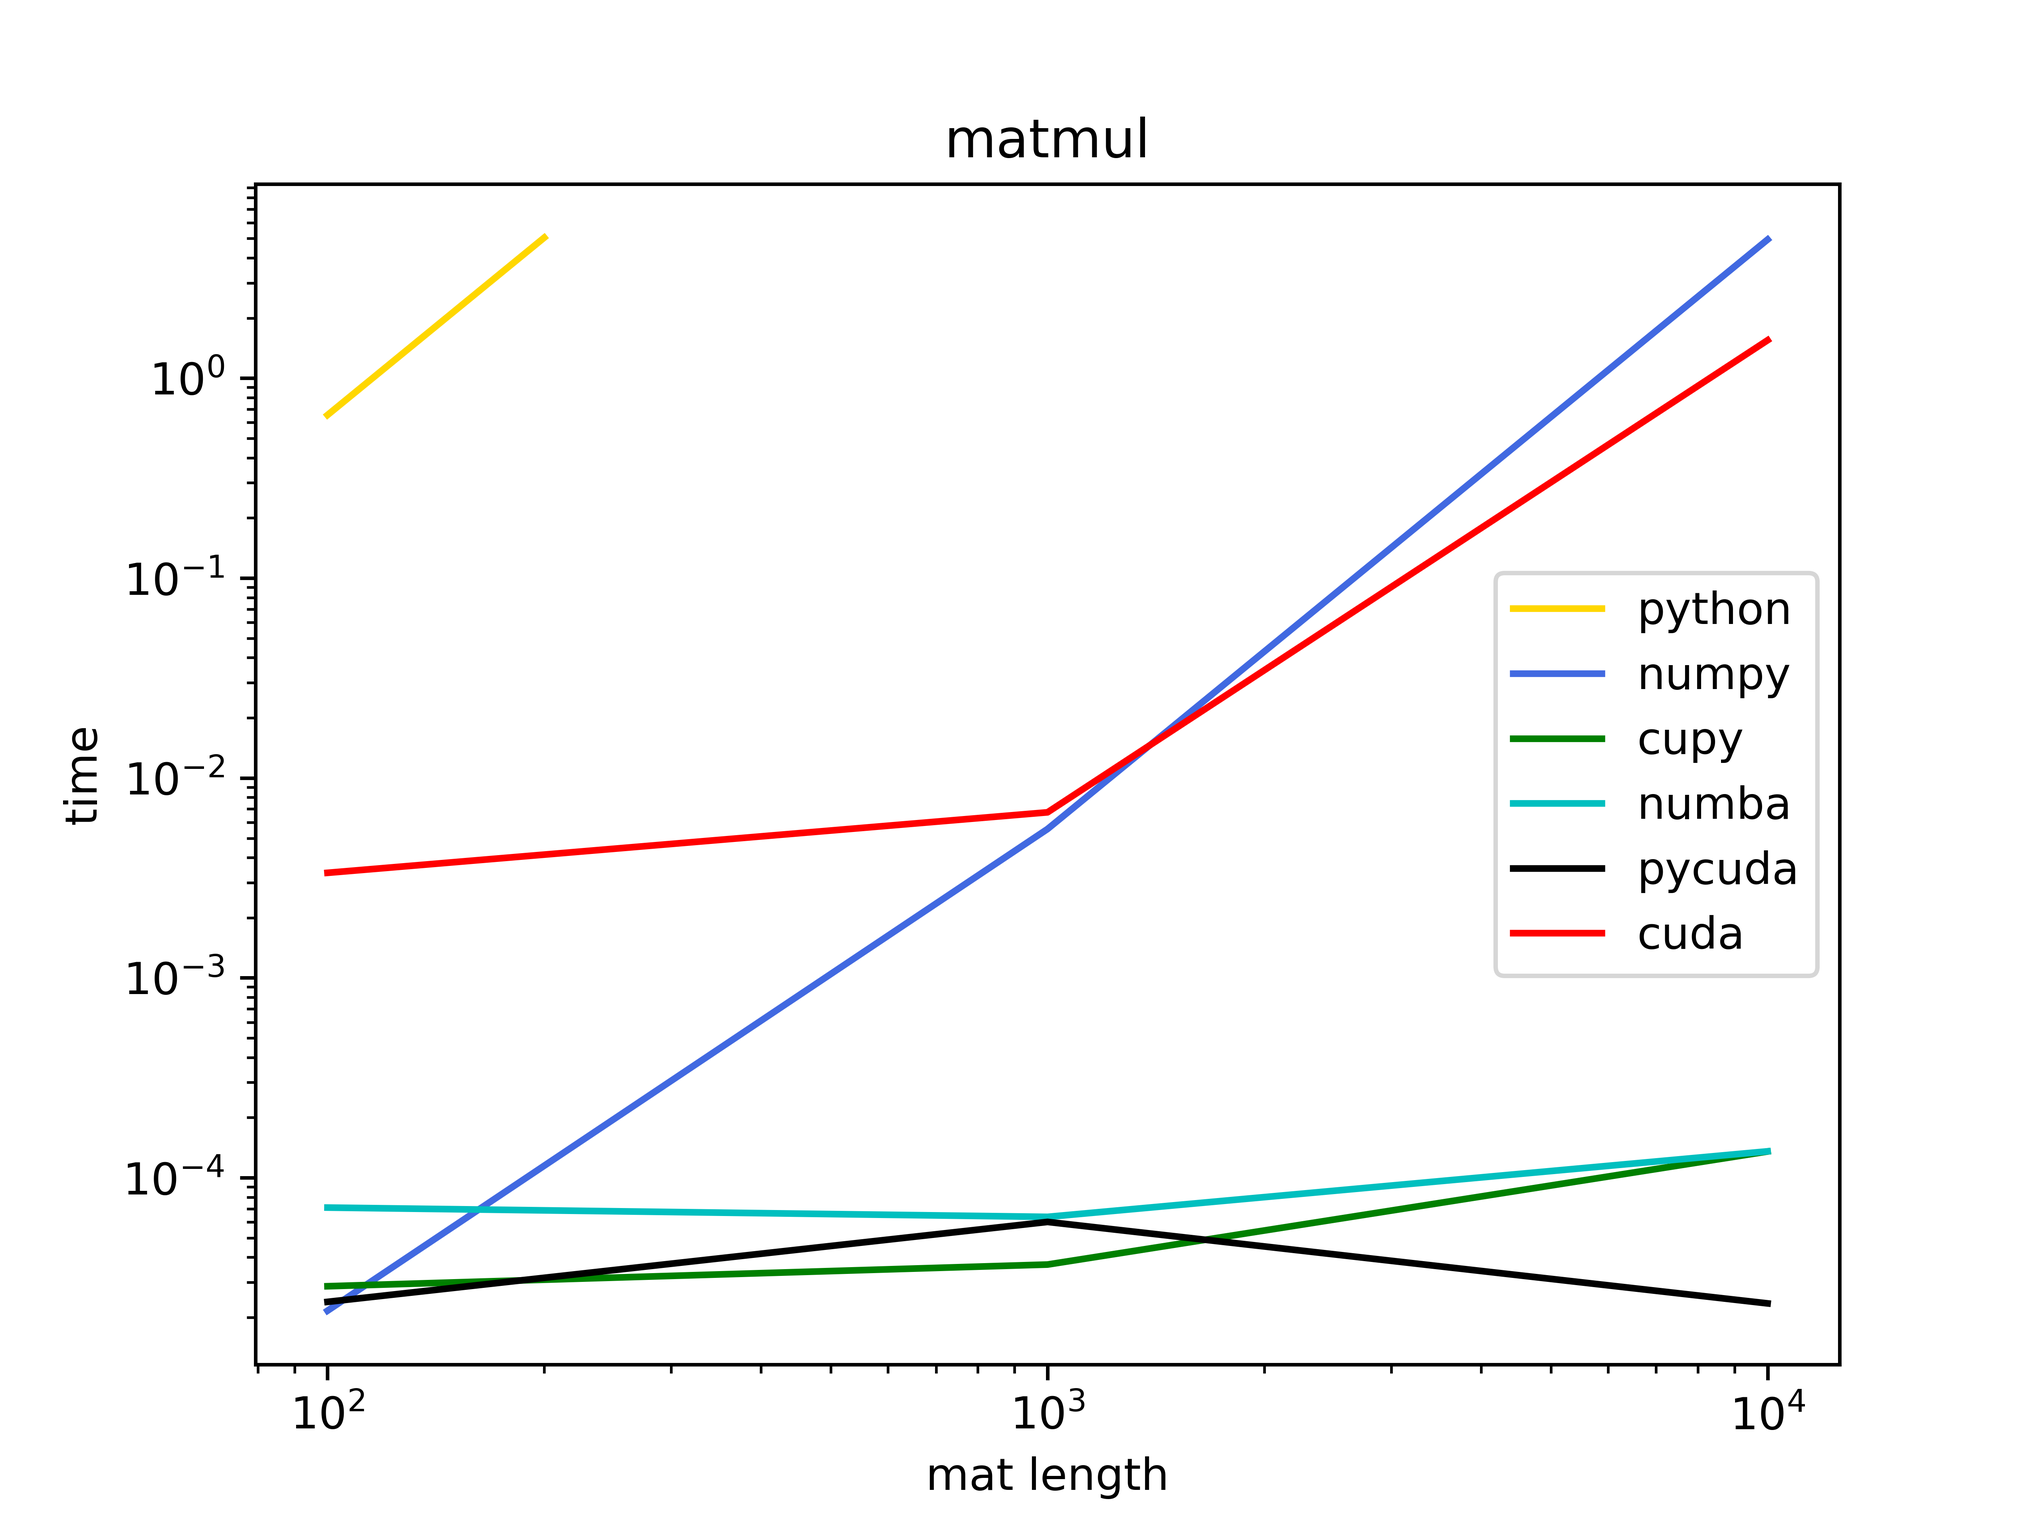
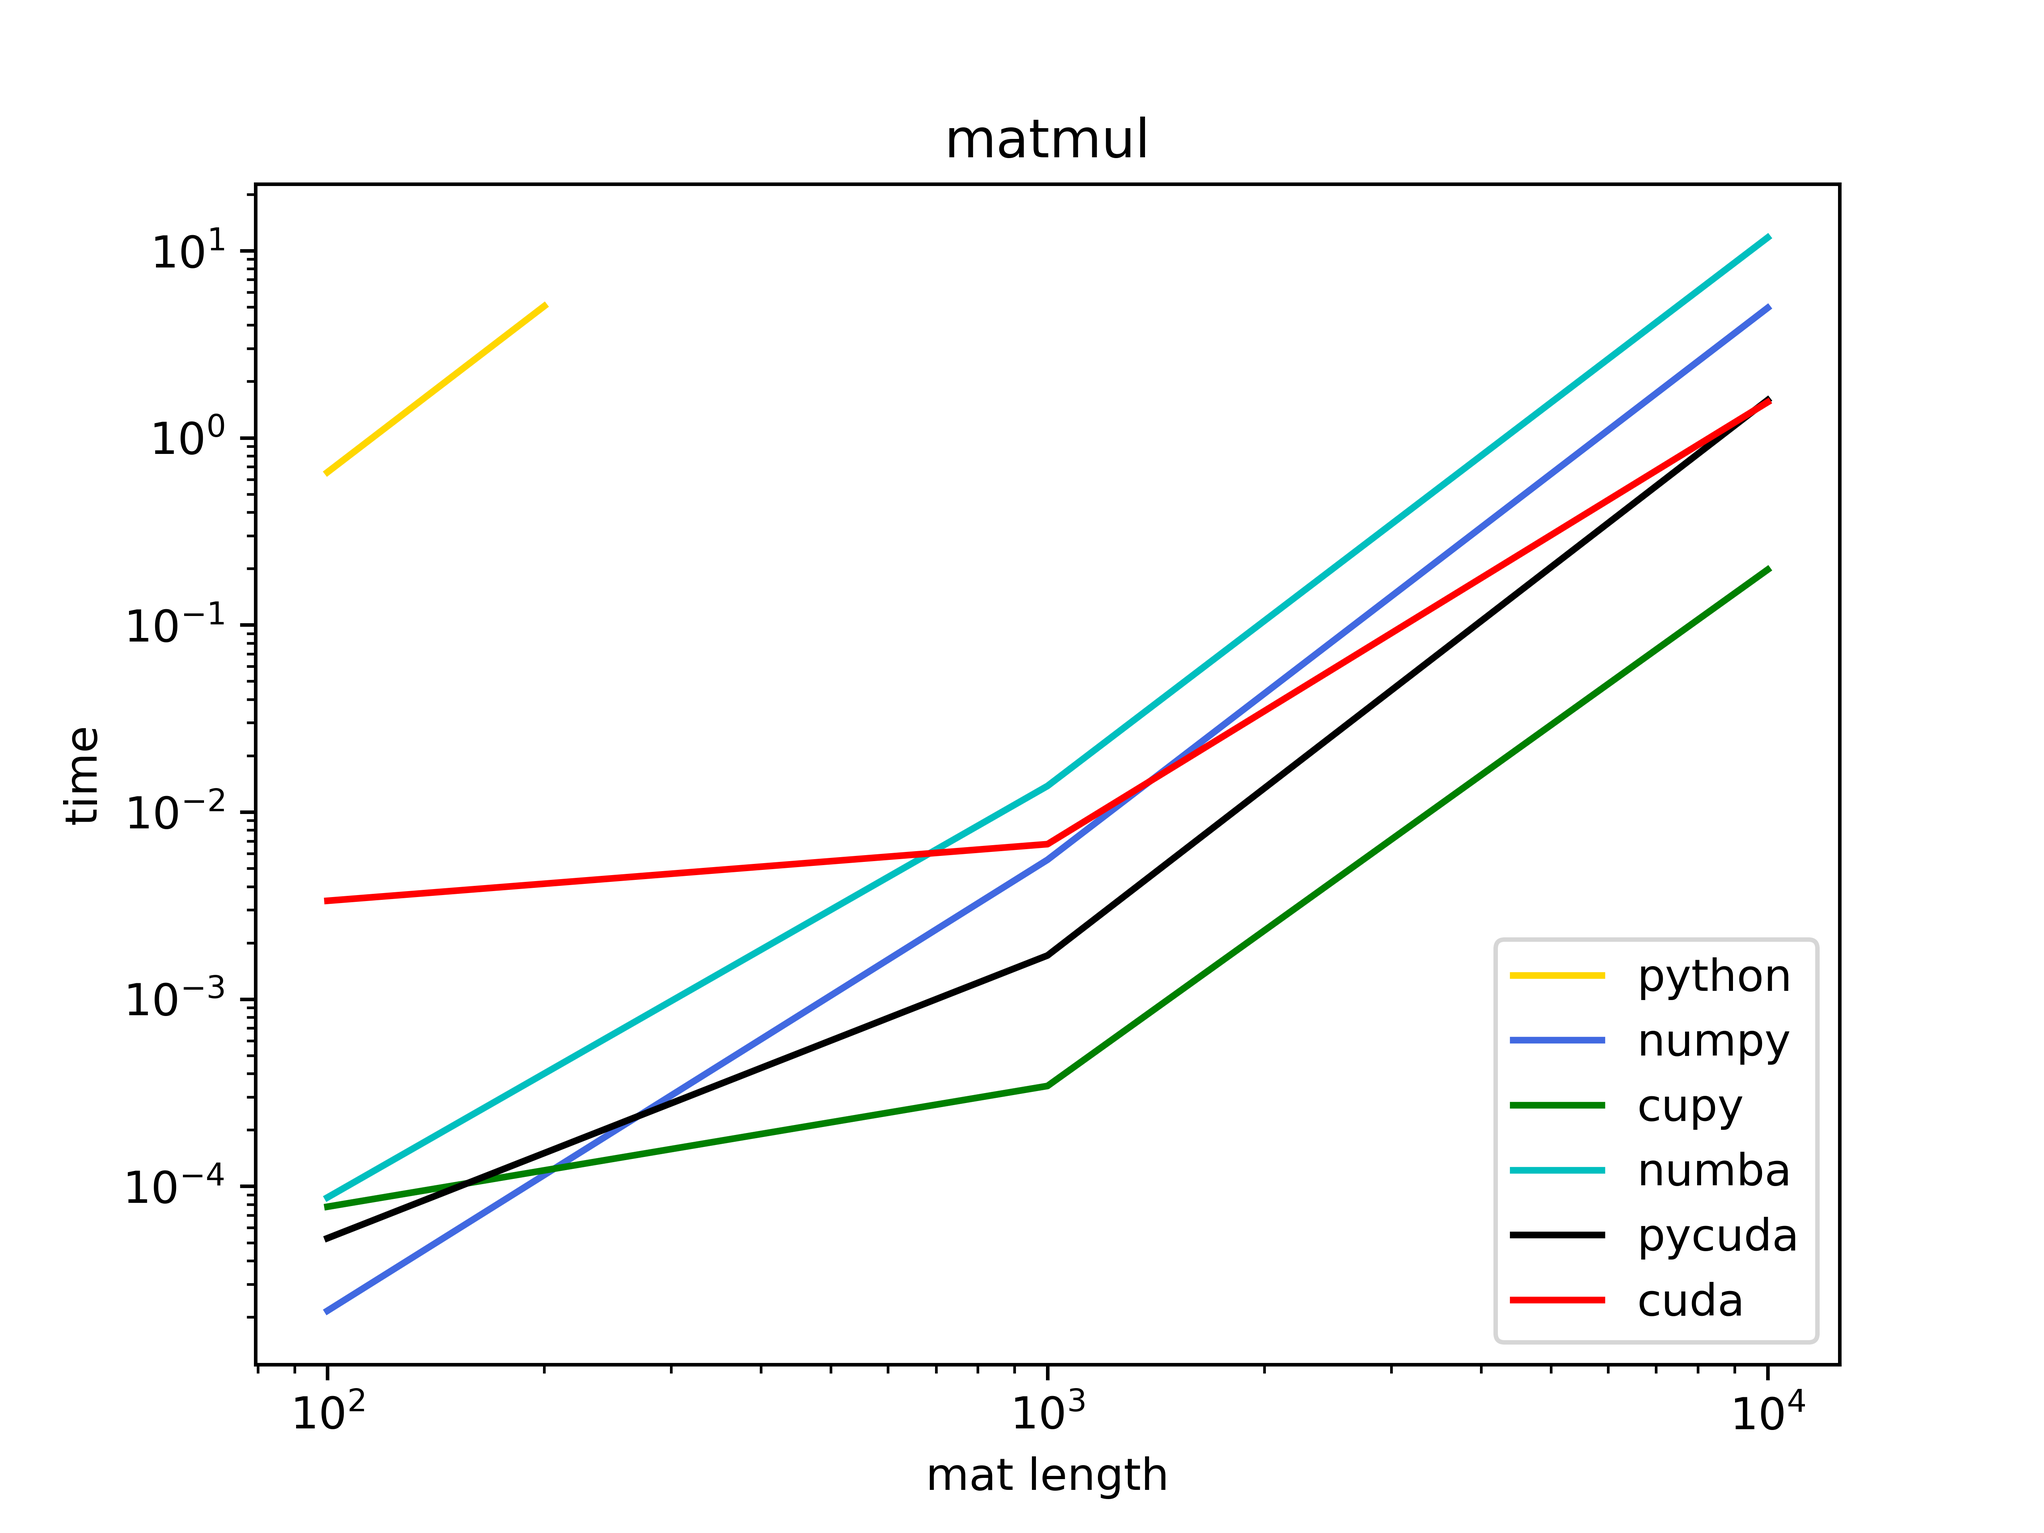
fix timing bug

diff --git a/test_time.py b/test_time.py
@@ -9,7 +9,7 @@ from python_numpy_cupy import python_matmul, numpy_matmul, cupy_matmul
 from numba_calculations import numba_reduce, numba_matadd, numba_matmul
 
 
-def measure_time(func, *args, test_count=10):
+def cpu_measure_time(func, *args, test_count=10):
     func(*args)
     start = perf_counter()
     for _ in range(test_count):
@@ -18,28 +18,40 @@ def measure_time(func, *args, test_count=10):
     return (end - start) / test_count
 
 
-if __name__ == '__main__':
-    print("\nREDUCE: ******************************************************************************")
-    print("Python reduce time:")
-    for exp in range(3, 8):
-        n = 10 ** exp
-        print(f"1e{exp}:", end=' ')
-        A_python = np.random.rand(n).astype(np.float32)
-        print(measure_time(python_reduce, A_python, test_count=3))
+def gpu_measure_time(func, *args, test_count=10):
+    func(*args)
+    start = cp.cuda.Event()
+    end = cp.cuda.Event()
+    start.record()
+    for _ in range(test_count):
+        func(*args)
+    end.record()
+    end.synchronize()
+    return cp.cuda.get_elapsed_time(start, end) / 1000 / test_count
 
-    print("\n Numpy reduce time:")
-    for exp in range(3, 10):
-        n = 10 ** exp
-        print(f"1e{exp}:", end=' ')
-        A_numpy = np.random.rand(n).astype(np.float32)
-        print(measure_time(numpy_reduce, A_numpy, test_count=10))
+
+if __name__ == '__main__':
+    # print("\nREDUCE: ******************************************************************************")
+    # print("Python reduce time:")
+    # for exp in range(3, 8):
+    #     n = 10 ** exp
+    #     print(f"1e{exp}:", end=' ')
+    #     A_python = np.random.rand(n).astype(np.float32)
+    #     print(cpu_measure_time(python_reduce, A_python, test_count=3))
+    #
+    # print("\n Numpy reduce time:")
+    # for exp in range(3, 10):
+    #     n = 10 ** exp
+    #     print(f"1e{exp}:", end=' ')
+    #     A_numpy = np.random.rand(n).astype(np.float32)
+    #     print(cpu_measure_time(numpy_reduce, A_numpy, test_count=10))
 
     print("\n Cupy reduce time:")
     for exp in range(3, 10):
         n = 10 ** exp
         print(f"1e{exp}:", end=' ')
         A_cupy = cp.asarray(np.random.rand(n).astype(np.float32))
-        print(measure_time(cupy_reduce, A_cupy, test_count=10))
+        print(gpu_measure_time(cupy_reduce, A_cupy, test_count=10))
 
     print("\n Numba reduce time:")
     for exp in range(3, 10):
@@ -50,26 +62,26 @@ if __name__ == '__main__':
         A_numba_gpu = numba_cuda.to_device(A_numba_cpu)
         res_numba_cpu = np.zeros(((A_numba_cpu.size + BLOCK_SIZE - 1) // BLOCK_SIZE), dtype=np.float32)
         res_numba_gpu = numba_cuda.to_device(res_numba_cpu)
-        print(measure_time(numba_reduce, A_numba_gpu, res_numba_gpu, test_count=10))
+        print(gpu_measure_time(numba_reduce, A_numba_gpu, res_numba_gpu, test_count=10))
 
     print("\nMATADD: ******************************************************************************")
-    print("Python matadd time: ")
-    for exp in range(2, 4):
-        n = 10 ** exp
-        print(f"1e{exp}:", end=' ')
-        A_python = np.random.randn(n, n).astype(np.float32)
-        B_python = np.random.randn(n, n).astype(np.float32)
-        res_python = np.zeros((n, n), dtype=np.float32)
-        print(measure_time(python_matadd, A_python, B_python, res_python, test_count=3))
-
-    print("\n Numpy matadd time: ")
-    for exp in range(2, 5):
-        n = 10 ** exp
-        print(f"1e{exp}:", end=' ')
-        A_numpy = np.random.randn(n, n).astype(np.float32)
-        B_numpy = np.random.randn(n, n).astype(np.float32)
-        res_numpy = np.zeros((n, n), dtype=np.float32)
-        print(measure_time(numpy_matadd, A_numpy, B_numpy, test_count=10))
+    # print("Python matadd time: ")
+    # for exp in range(2, 4):
+    #     n = 10 ** exp
+    #     print(f"1e{exp}:", end=' ')
+    #     A_python = np.random.randn(n, n).astype(np.float32)
+    #     B_python = np.random.randn(n, n).astype(np.float32)
+    #     res_python = np.zeros((n, n), dtype=np.float32)
+    #     print(cpu_measure_time(python_matadd, A_python, B_python, res_python, test_count=3))
+    #
+    # print("\n Numpy matadd time: ")
+    # for exp in range(2, 5):
+    #     n = 10 ** exp
+    #     print(f"1e{exp}:", end=' ')
+    #     A_numpy = np.random.randn(n, n).astype(np.float32)
+    #     B_numpy = np.random.randn(n, n).astype(np.float32)
+    #     res_numpy = np.zeros((n, n), dtype=np.float32)
+    #     print(cpu_measure_time(numpy_matadd, A_numpy, B_numpy, test_count=10))
 
     print("\n Cupy matadd time: ")
     for exp in range(2, 5):
@@ -77,7 +89,7 @@ if __name__ == '__main__':
         print(f"1e{exp}:", end=' ')
         A_cupy = cp.asarray(np.random.randn(n, n).astype(np.float32))
         B_cupy = cp.asarray(np.random.randn(n, n).astype(np.float32))
-        print(measure_time(cupy_matadd, A_cupy, B_cupy, test_count=10))
+        print(gpu_measure_time(cupy_matadd, A_cupy, B_cupy, test_count=10))
 
     print("\n Numba matadd time: ")
     for exp in range(2, 5):
@@ -90,25 +102,25 @@ if __name__ == '__main__':
         A_numba_gpu = numba_cuda.to_device(A_numba_cpu)
         B_numba_gpu = numba_cuda.to_device(B_numba_cpu)
         res_numba_gpu = numba_cuda.to_device(res_numba_cpu)
-        print(measure_time(numba_matadd, A_numba_gpu, B_numba_gpu, res_numba_gpu, test_count=10))
+        print(gpu_measure_time(numba_matadd, A_numba_gpu, B_numba_gpu, res_numba_gpu, test_count=10))
 
     print("\nMATMUL: ******************************************************************************")
-    print("Python matmul time: ")
-    for n in [100, 200]:
-        print(f"n:", end=' ')
-        A_python = np.random.randn(n, n).astype(np.float32)
-        B_python = np.random.randn(n, n).astype(np.float32)
-        res_python = np.zeros((n, n), dtype=np.float32)
-        print(measure_time(python_matmul, A_python, B_python, res_python, test_count=1))
-
-    print("\n Numpy matmul time: ")
-    for exp in range(2, 5):
-        n = 10 ** exp
-        print(f"1e{exp}:", end=' ')
-        A_numpy = np.random.randn(n, n).astype(np.float32)
-        B_numpy = np.random.randn(n, n).astype(np.float32)
-        res_numpy = np.zeros((n, n), dtype=np.float32)
-        print(measure_time(numpy_matmul, A_numpy, B_numpy, test_count=10))
+    # print("Python matmul time: ")
+    # for n in [100, 200]:
+    #     print(f"n:", end=' ')
+    #     A_python = np.random.randn(n, n).astype(np.float32)
+    #     B_python = np.random.randn(n, n).astype(np.float32)
+    #     res_python = np.zeros((n, n), dtype=np.float32)
+    #     print(cpu_measure_time(python_matmul, A_python, B_python, res_python, test_count=1))
+    #
+    # print("\n Numpy matmul time: ")
+    # for exp in range(2, 5):
+    #     n = 10 ** exp
+    #     print(f"1e{exp}:", end=' ')
+    #     A_numpy = np.random.randn(n, n).astype(np.float32)
+    #     B_numpy = np.random.randn(n, n).astype(np.float32)
+    #     res_numpy = np.zeros((n, n), dtype=np.float32)
+    #     print(cpu_measure_time(numpy_matmul, A_numpy, B_numpy, test_count=10))
 
     print("\n Cupy matmul time: ")
     for exp in range(2, 5):
@@ -116,7 +128,7 @@ if __name__ == '__main__':
         print(f"1e{exp}:", end=' ')
         A_cupy = cp.asarray(np.random.randn(n, n).astype(np.float32))
         B_cupy = cp.asarray(np.random.randn(n, n).astype(np.float32))
-        print(measure_time(cupy_matmul, A_cupy, B_cupy, test_count=10))
+        print(gpu_measure_time(cupy_matmul, A_cupy, B_cupy, test_count=10))
 
     print("\n Numba matmul time: ")
     for exp in range(2, 5):
@@ -129,4 +141,4 @@ if __name__ == '__main__':
         A_numba_gpu = numba_cuda.to_device(A_numba_cpu)
         B_numba_gpu = numba_cuda.to_device(B_numba_cpu)
         res_numba_gpu = numba_cuda.to_device(res_numba_cpu)
-        print(measure_time(numba_matmul, A_numba_gpu, B_numba_gpu, res_numba_gpu, test_count=10))
+        print(gpu_measure_time(numba_matmul, A_numba_gpu, B_numba_gpu, res_numba_gpu, test_count=10))

diff --git a/plot.py b/plot.py
@@ -11,18 +11,18 @@ y_reduce_numpy = [5.699999999997374e-06, 6.82000000002958e-06, 3.277999999999892
 plt.plot(x_reduce_numpy, y_reduce_numpy, "royalblue", label="numpy")
 
 x_reduce_cupy = [1e3, 1e4, 1e5, 1e6, 1e7, 1e8, 1e9]
-y_reduce_cupy = [2.653999999999712e-05, 3.7440000000188435e-05, 3.47200000000214e-05, 3.3790000000166744e-05,
-                 3.335999999976025e-05, 3.360000000007801e-05, 4.2249999999910415e-05]
+y_reduce_cupy = [2.847039997577667e-05, 3.8105601072311405e-05, 3.1436800956726076e-05, 2.4166400730609895e-05,
+                 0.00011632640361785887, 0.001104588794708252, 0.010706432342529297]
 plt.plot(x_reduce_cupy, y_reduce_cupy, "-g", label="cupy")
 
 x_reduce_numba = [1e3, 1e4, 1e5, 1e6, 1e7, 1e8, 1e9]
-y_reduce_numba = [5.8729999999229676e-05, 5.464999999986731e-05, 5.4749999999614826e-05, 6.817000000012286e-05,
-                  5.5629999999950995e-05, 5.239999999986367e-05, 6.246999999746095e-05]
+y_reduce_numba = [7.29088008403778e-05, 9.031360149383545e-05, 5.926079750061035e-05, 6.338559985160828e-05,
+                  0.0005272575855255127, 0.005344870376586914, 0.05438638305664063]
 plt.plot(x_reduce_numba, y_reduce_numba, "-c", label="numba")
 
 x_reduce_pycuda = [1e3, 1e4, 1e5, 1e6, 1e7, 1e8, 1e9]
-y_reduce_pycuda = [4.6659999999976165e-05, 4.885999999997282e-05, 5.0920000000020946e-05, 7.345000000000824e-05,
-                   1.925000000002619e-05, 1.911999999997249e-05, 4.552999999987151e-05]
+y_reduce_pycuda = [4.253439903259277e-05, 3.461120128631592e-05, 3.478080034255981e-05, 4.8127999901771545e-05,
+                   0.00046817278861999514, 0.005154710388183594, 0.03864739990234375]
 plt.plot(x_reduce_pycuda, y_reduce_pycuda, "black", label="pycuda")
 
 x_reduce_cuda = [1e3, 1e4, 1e5, 1e6, 1e7, 1e8, 1e9]
@@ -47,15 +47,15 @@ y_matadd_numpy = [2.1700000000013374e-06, 0.001481139999999992, 0.13732965000000
 plt.plot(x_matadd_numpy, y_matadd_numpy, "royalblue", label="numpy")
 
 x_matadd_cupy = [1e2, 1e3, 1e4]
-y_matadd_cupy = [2.7199999999893976e-05, 2.3930000000049744e-05, 5.40599999999003e-05]
+y_matadd_cupy = [3.153280019760132e-05, 3.819519877433777e-05, 0.003117158317565918]
 plt.plot(x_matadd_cupy, y_matadd_cupy, "-g", label="cupy")
 
 x_matadd_numba = [1e2, 1e3, 1e4]
-y_matadd_numba = [6.798999999997335e-05, 6.331999999993343e-05, 6.512999999976898e-05]
+y_matadd_numba = [7.616000175476074e-05, 6.38975977897644e-05, 0.003133337593078613]
 plt.plot(x_matadd_numba, y_matadd_numba, "-c", label="numba")
 
 x_matadd_pycuda = [1e2, 1e3, 1e4]
-y_matadd_pycuda = [2.667999999985682e-05, 2.4330000000105655e-05, 2.454000000042811e-05]
+y_matadd_pycuda = [2.29312002658844e-05, 3.7376001477241516e-05, 0.0036380672454833984]
 plt.plot(x_matadd_pycuda, y_matadd_pycuda, "black", label="pycuda")
 
 x_matadd_cuda = [1e2, 1e3, 1e4]
@@ -80,15 +80,15 @@ y_matmul_numpy = [2.1620000000055484e-05, 0.005557010000000062, 4.94059816999999
 plt.plot(x_matmul_numpy, y_matmul_numpy, "royalblue", label="numpy")
 
 x_matmul_cupy = [1e2, 1e3, 1e4]
-y_matmul_cupy = [2.865999999954738e-05, 3.6800000000880575e-05, 0.0001353399999999283]
+y_matmul_cupy = [7.774080038070679e-05, 0.0003435519933700561, 0.19716658935546877]
 plt.plot(x_matmul_cupy, y_matmul_cupy, "-g", label="cupy")
 
 x_matmul_numba = [1e2, 1e3, 1e4]
-y_matmul_numba = [7.092999999969152e-05, 6.374000000022306e-05, 0.0001355799999998908]
+y_matmul_numba = [8.714240193367004e-05, 0.013781607055664063, 11.73740859375]
 plt.plot(x_matmul_numba, y_matmul_numba, "-c", label="numba")
 
 x_matmul_pycuda = [1e2, 1e3, 1e4]
-y_matmul_pycuda = [2.394000000052188e-05, 6.0129999999958274e-05, 2.3519999999876972e-05]
+y_matmul_pycuda = [5.27679979801178e-05, 0.0017118207931518554, 1.5892228515625]
 plt.plot(x_matmul_pycuda, y_matmul_pycuda, "black", label="pycuda")
 
 x_matmul_cuda = [1e2, 1e3, 1e4]

diff --git a/pycuda_calculations.py b/pycuda_calculations.py
@@ -2,6 +2,7 @@ import pycuda.driver as driver
 from pycuda.compiler import SourceModule
 import pycuda.autoinit  # need this for decode mod string
 import numpy as np
+import cupy as cp
 
 # for reduction --------------------------------------------------------------------------------------------------------
 BLOCK_SIZE = 512
@@ -147,13 +148,16 @@ if __name__ == '__main__':
     from time import perf_counter
 
 
-    def measure_time(func, *args, test_count=10):
+    def gpu_measure_time(func, *args, test_count=10):
         func(*args)
-        start = perf_counter()
+        start = cp.cuda.Event()
+        end = cp.cuda.Event()
+        start.record()
         for _ in range(test_count):
             func(*args)
-        end = perf_counter()
-        return (end - start) / test_count
+        end.record()
+        end.synchronize()
+        return cp.cuda.get_elapsed_time(start, end) / 1000 / test_count
 
 
     A = np.random.rand(1000).astype(np.float32)
@@ -206,7 +210,7 @@ if __name__ == '__main__':
         res_pycuda_gpu = driver.mem_alloc(res_pycuda_cpu.nbytes)
         driver.memcpy_htod(A_pycuda_gpu, A_pycuda_cpu)
         print("Pycuda reduce time: ",
-              measure_time(pycuda_reduce, A_pycuda_gpu, len(A_pycuda_cpu), res_pycuda_gpu, test_count=10))
+              gpu_measure_time(pycuda_reduce, A_pycuda_gpu, len(A_pycuda_cpu), res_pycuda_gpu, test_count=10))
 
     print("\nMATADD: ******************************************************************************")
     for exp in range(2, 5):
@@ -225,8 +229,8 @@ if __name__ == '__main__':
         C_pycuda_cpu_f = C_pycuda_cpu.flatten()
         C_pycuda_gpu = driver.mem_alloc(C_pycuda_cpu_f.nbytes)
         print("Pycuda matmul time: ",
-              measure_time(pycuda_matadd, A_pycuda_cpu.shape[0], A_pycuda_gpu, B_pycuda_gpu, C_pycuda_gpu,
-                           test_count=10))
+              gpu_measure_time(pycuda_matadd, A_pycuda_cpu.shape[0], A_pycuda_gpu, B_pycuda_gpu, C_pycuda_gpu,
+                               test_count=10))
 
     print("\nMATMUL: ******************************************************************************")
     for exp in range(2, 5):
@@ -245,5 +249,5 @@ if __name__ == '__main__':
         C_pycuda_cpu_f = C_pycuda_cpu.flatten()
         C_pycuda_gpu = driver.mem_alloc(C_pycuda_cpu_f.nbytes)
         print("Pycuda matmul time: ",
-              measure_time(pycuda_matmul, A_pycuda_cpu.shape[0], A_pycuda_cpu.shape[1], B_pycuda_cpu.shape[1],
-                           A_pycuda_gpu, B_pycuda_gpu, C_pycuda_gpu, test_count=10))
+              gpu_measure_time(pycuda_matmul, A_pycuda_cpu.shape[0], A_pycuda_cpu.shape[1], B_pycuda_cpu.shape[1],
+                               A_pycuda_gpu, B_pycuda_gpu, C_pycuda_gpu, test_count=10))

diff --git a/numba_calculations.py b/numba_calculations.py
@@ -7,7 +7,7 @@ BLOCK_SIZE = 512
 BLOCK_SIZE_2 = BLOCK_SIZE * 2
 
 
-@cuda.jit
+@cuda.jit(cache=True)
 def numba_reduce_thread(nums, res):
     partial_sum = cuda.shared.array(shape=BLOCK_SIZE_2, dtype=numba.float32)
     thread_idx = cuda.threadIdx.x
@@ -45,7 +45,7 @@ def numba_reduce(nums, res):
 TILE_SIZE = 32
 
 
-@cuda.jit
+@cuda.jit(cache=True)
 def numba_matadd_thread(mat_A, mat_B, mat_res):
     global_x, global_y = cuda.grid(2)
 
@@ -62,7 +62,7 @@ def numba_matadd(mat_A, mat_B, mat_res):
 
 
 # for matmul -----------------------------------------------------------------------------------------------------------
-@cuda.jit
+@cuda.jit(cache=True)
 def numba_matmul_thread(mat_A, mat_B, mat_res):
     A_block = cuda.shared.array(shape=(TILE_SIZE, TILE_SIZE), dtype=numba.float32)
     B_block = cuda.shared.array(shape=(TILE_SIZE, TILE_SIZE), dtype=numba.float32)
